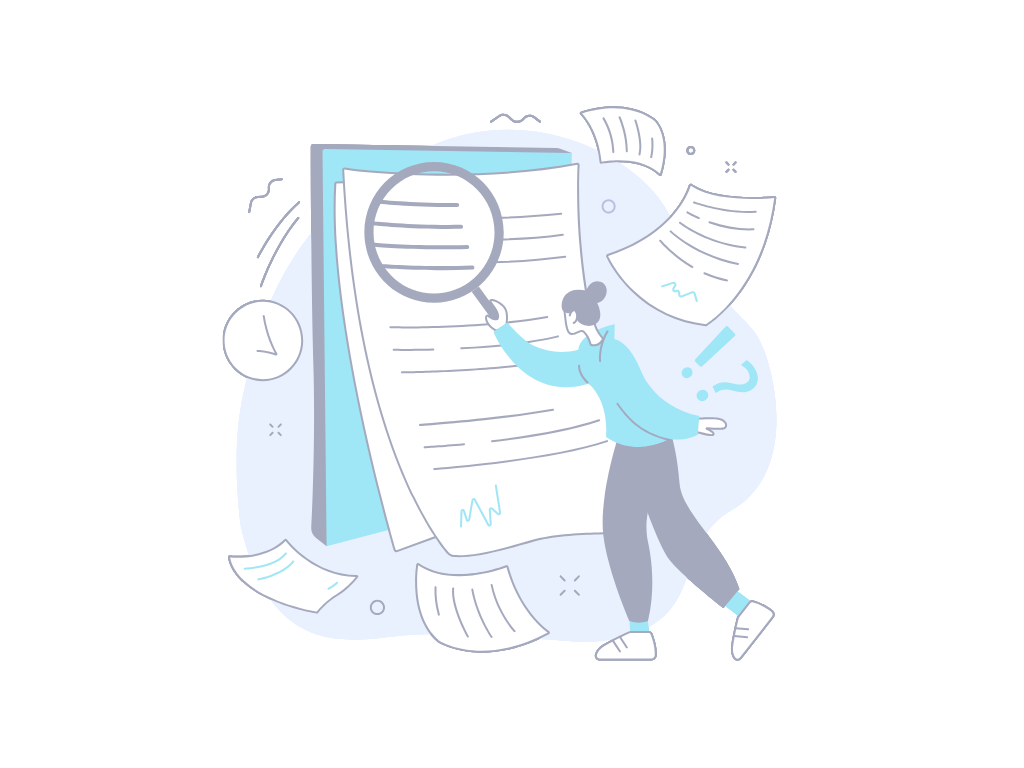
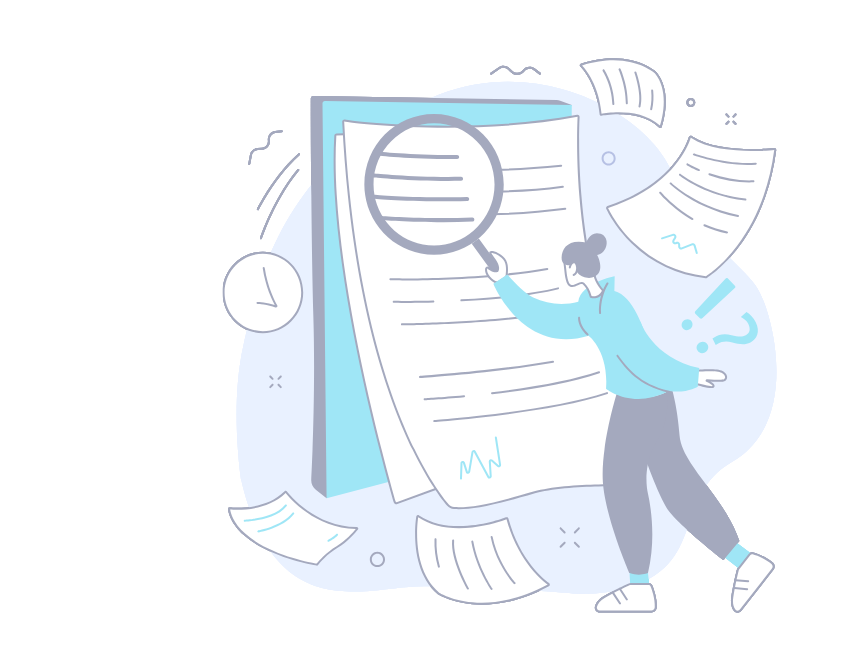
.

diff --git a/lims/public/inicio_digitador.html b/lims/public/inicio_digitador.html
@@ -8,14 +8,14 @@
   </head>
   <body>
     <div id="root_menu_digitador"></div>
-    <div style="margin-left: 20%; padding: 100px; width: 50%">
+    <div style="margin-left: 20%; width: 50%; padding-top: 100px; padding-left: 90px">
       <h1>Bienvenido, Juan</h1></br>
       <h3>Sistema de gestión de información de laboratorio</h3></br>
       <p>"El compromiso del digitador en un sistema de gestión de 
         información de laboratorio es asegurar la entrada precisa 
         y rápida de los datos, manteniendo la integridad y exactitud 
         de la información desde el primer paso."</p>
-        <img src="/img/digitador.png" alt="digitador" style="width: 850px; margin-left: 5%">
+        <img src="/img/digitador.png" alt="digitador" style="width: 850px; margin-left: 20%;">
     </div>
     <script type="module" src="./inicio_digitador.jsx"></script>
   </body>

diff --git a/lims/public/inicio_supervisor.html b/lims/public/inicio_supervisor.html
@@ -8,11 +8,11 @@
   </head>
   <body>
     <div id="inicioSupervisor"></div>
-    <div style="margin-left: 20%; padding: 100px; width: 50%;">
+    <div style="margin-left: 20%; width: 50%; padding-top: 100px; padding-left: 90px">
       <h1>Bienvenido, Juan</h1></br>
       <h3>Sistema de gestión de información de laboratorio</h3></br>
       <p>"El supervisor desempeña un rol crucial en el sistema de gestión de información, supervisando que los procesos se realicen de acuerdo a los estándares y procedimientos establecidos, garantizando la calidad en cada fase."</p>
-      <img src="/img/supervisor.png" alt="supervisor" style="width: 850px; margin-left: 5%">
+      <img src="/img/supervisor.png" alt="supervisor" style="width: 850px; margin-left: 20%;">
     </div>
     <script type="module" src="./inicio_supervisor.jsx"></script>
   </body>

diff --git a/lims/public/inicio_auditor.html b/lims/public/inicio_auditor.html
@@ -8,11 +8,11 @@
   </head>
   <body>
     <div id="inicioAuditor"></div>
-    <div style="margin-left: 20%; padding: 100px; width: 50%;">
+    <div style="margin-left: 20%; width: 50%; padding-top: 100px; padding-left: 90px">
       <h1>Bienvenido, Juan</h1></br>
       <h3>Sistema de gestión de información de laboratorio</h3></br>
       <p> "El auditor verifica la integridad y la exactitud de los datos, asegurándose de que cada proceso en el sistema de gestión cumpla con las normativas y esté alineado con los estándares de calidad exigidos."</p>
-      <img src="/img/auditor.png" alt="auditor" style="width: 850px; margin-left: 5%">
+      <img src="/img/auditor.png" alt="auditor" style="width: 850px; margin-left: 20%;">
     </div>
     <script type="module" src="./inicio_auditor.jsx"></script>
   </body>

diff --git a/lims/public/inicio_analista.html b/lims/public/inicio_analista.html
@@ -8,11 +8,11 @@
   </head>
   <body>
     <div id="inicioAnalista"></div>
-    <div style="margin-left: 20%; padding: 100px; width: 50%;">
+    <div style="margin-left: 20%; width: 50%; padding-top: 100px; padding-left: 90px">
       <h1>Bienvenido, Juan</h1></br>
       <h3>Sistema de gestión de información de laboratorio</h3></br>
       <p>"El analista se compromete a interpretar y validar los datos para extraer información relevante que apoye en la toma de decisiones, transformando los datos en conocimiento valioso para el laboratorio."</p>
-      <img src="/img/analista.png" alt="analista" style="width: 850px; margin-left: 5%">
+      <img src="/img/analista.png" alt="analista" style="width: 850px; margin-left: 20%;">
     </div>
     <script type="module" src="./inicio_analista.jsx"></script>
   </body>

diff --git a/lims/src/menu.jsx b/lims/src/menu.jsx
@@ -42,7 +42,7 @@ export default function Menu(){
           <ListItemText>Historial de muestras</ListItemText>
         </MenuItem>
         
-        <MenuItem id="itemsMenu" component="a" href="/public/historial_muestra_analista.html">
+        <MenuItem id="itemsMenu" component="a" href="/public/bitacora_muestras_supervisor.html">
           <ListItemIcon sx={{marginRight: 2}}>
             <MessageRoundedIcon fontSize="large" sx={{color: "white"}} />
           </ListItemIcon>

diff --git a/lims/src/TableComponent.jsx b/lims/src/TableComponent.jsx
@@ -121,7 +121,7 @@ const TableComponent = () => {
             ),
           }}
         />
-        <Button variant="contained" color="primary" onClick={() => requestSearch(searchText)}>
+        <Button variant="contained" onClick={() => requestSearch(searchText)} sx={{backgroundColor: "#12C2E9"}}>
           Buscar
         </Button>
         <Button onClick={clearFilters} style={{ color: '#2196f3', textTransform: 'none', marginLeft: '10px' }}>

diff --git a/lims/public/bitacora_muestras_supervisor.jsx b/lims/public/bitacora_muestras_supervisor.jsx
@@ -9,6 +9,7 @@ import '/src/menu.css'
 import TableComponent from '../src/TableComponent';
 import ModalAsignarAnalista from '/src//ModalAsignarAnalista';
 import {  Typography } from '@mui/material';
+
 createRoot(document.getElementById('bitacoraMuestrasSupervisor')).render(
   <StrictMode>
   <div style={{display: "flex", flexDirection: "row", justifyContent: "space-between"}}>

diff --git a/lims/src/modalAsignarAnalista.jsx b/lims/src/modalAsignarAnalista.jsx
@@ -45,7 +45,7 @@ export default function ModalAsignarAnalista() {
 
     return (
         <div>
-            <div style={{ display: 'flex', justifyContent: 'flex-end' }}>
+            <div style={{marginRight: "2%", display: 'flex', justifyContent: 'flex-end' }}>
                 <Button 
                     onClick={handleOpen} 
                     variant='contained' 
